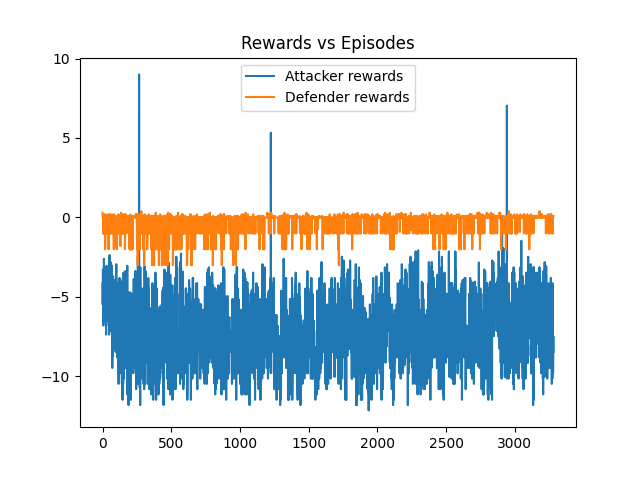
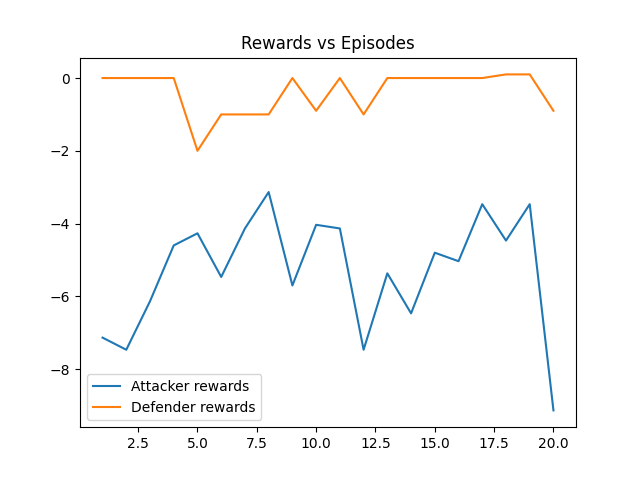
Fixed bug: no episode value when not loading from a save data

diff --git a/run_game.py b/run_game.py
@@ -15,13 +15,13 @@ if __name__ == '__main__':
     enable_save = True
     
     # --- Set up your algorithm here
-    N_EPISODES = 100000
+    N_EPISODES = 10
     N_EPISODE_STEPS = 30
     '''Algorithm list:
         - Vanilla-DQN
         - Dueling-DQN
     '''
-    algorithm_version = 'Dueling-DQN'
+    algorithm_version = 'Vanilla-DQN'
 
     # --- Setting up the game environment
     env = game.Game(ml_ai=True, render=False)
@@ -54,9 +54,8 @@ if __name__ == '__main__':
                 lines = list(csv.reader(f))
             lines = np.array(lines, float)
             attacker_r, defender_r = lines[:2]
-            episodes = len(attacker_r)
             # Cumulative episodes is the number of episode from previous load. If there's nothing to load, start at 0
-            cumulative_episodes = episodes
+            cumulative_episodes = len(attacker_r)
             attacker_agent.load_model(f'attacker_{algorithm_version}')
             defender_agent.load_model(f'defender_{algorithm_version}')
             print("Continuing from last save data")
@@ -121,7 +120,8 @@ if __name__ == '__main__':
     print(f"Training finished. Total elapsed time: {round(training_end_time-training_start_time, 2)}s")
 
     # --- Rewards vs episode plot
-    episodes = np.arange(0, episodes+1)
+    episodes = len(attacker_r)
+    episodes = np.arange(1, episodes+1)
     plt.plot(episodes, attacker_r, label='Attacker rewards')
     plt.plot(episodes, defender_r, label='Defender rewards')
     plt.title('Rewards vs Episodes')
